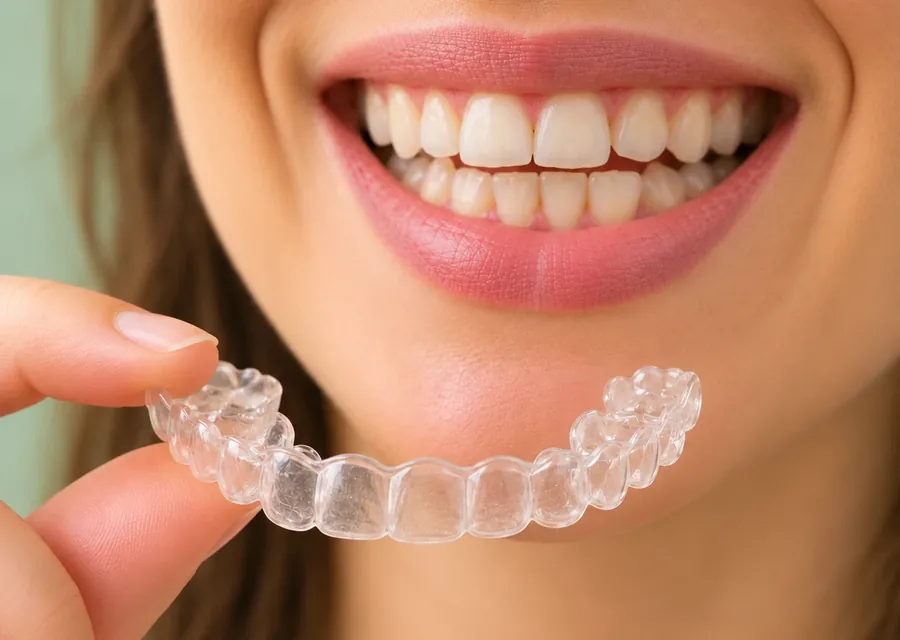
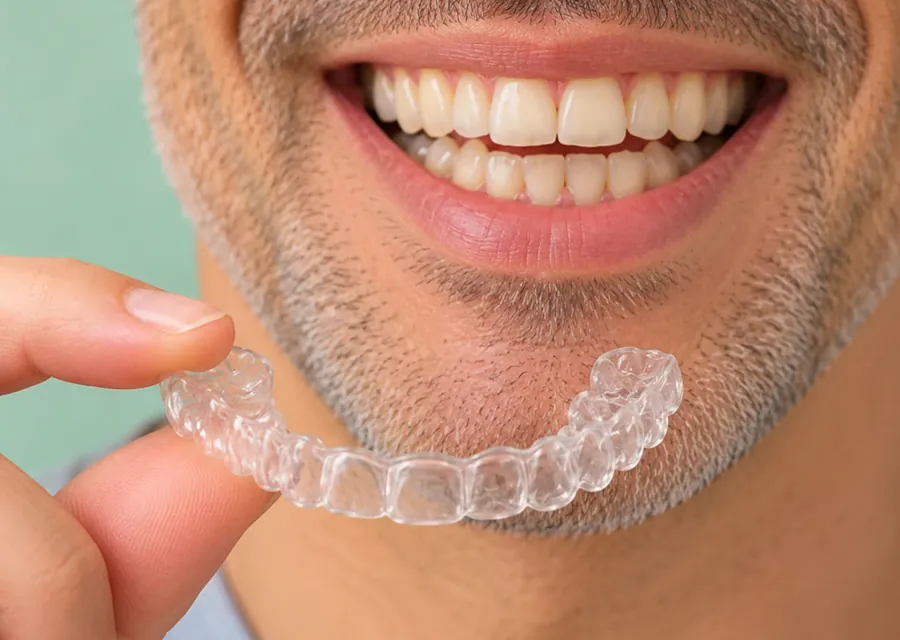
Publica as fotos novas do Para quem é, com pessoas diferentes em cada cartão
Aprovadas pelo Felipe. Gênero, idade e tom de pele variados, com aparência brasileira, mantendo o defeito e o enquadramento de cada cartão. As seis cabem juntas na tela em zoom 100%.

Claude-Session: https://claude.ai/code/session_013ZBAMFUUhj3y7DouA4XRGk

diff --git a/index.html b/index.html
@@ -34,7 +34,7 @@
     <link rel="preconnect" href="https://fonts.gstatic.com" crossorigin>
     <link href="https://fonts.googleapis.com/css2?family=Montserrat:wght@300;400;500;600;700&display=swap" rel="stylesheet">
     <link rel="preload" as="image" href="assets/profissional/dra-nayane-topo-900.webp" imagesrcset="assets/profissional/dra-nayane-topo-560.webp 560w, assets/profissional/dra-nayane-topo-900.webp 900w" imagesizes="(min-width: 1024px) 460px, 86vw">
-    <link rel="stylesheet" href="styles.css?v=20261107-38">
+    <link rel="stylesheet" href="styles.css?v=20261107-39">
 </head>
 <body>
 

diff --git a/README.md b/README.md
@@ -22,7 +22,7 @@ Landing page da **Dra. Nayane Moreno**, Cirurgiã-Dentista (CRO-SE 2301) em Arac
 |---|---|
 | **Menu** | Fixo, com nome e CRO sempre visíveis; menu de tela cheia no celular (fecha com `Esc` ou ao tocar num link) |
 | **Topo** | Título, foto em moldura de arco, cartão com CRO, três números de destaque e faixa com quatro diferenciais |
-| **Para quem é** | Seis situações em cartões com foto no topo (referência: site de salas da Vallenci), título e frase. Fotos ilustrativas geradas por IA em `assets/situacoes/` (WebP 900x822 e 520x475), com a nota "Imagens ilustrativas" |
+| **Para quem é** | Seis situações em cartões com foto no topo (referência: site de salas da Vallenci), título e frase. Fotos ilustrativas geradas por IA, com pessoas diferentes em cada cartão (gênero, idade e tom de pele variados, aparência brasileira), em `assets/situacoes/` (WebP 900x822 e 520x475), com a nota "Imagens ilustrativas" |
 | **Aparelhos** | Três cartões (metálico, porcelana, alinhador) com foto no topo (`assets/aparelhos/`, WebP 900x640 e 520x365, ilustrativas, geradas por IA), características e botão próprio |
 | **Convênios e particular** | Lado a lado: planos atendidos e atendimento particular |
 | **Como funciona** | Cinco etapas, do WhatsApp ao acompanhamento, e citação da Dra. Nayane |
